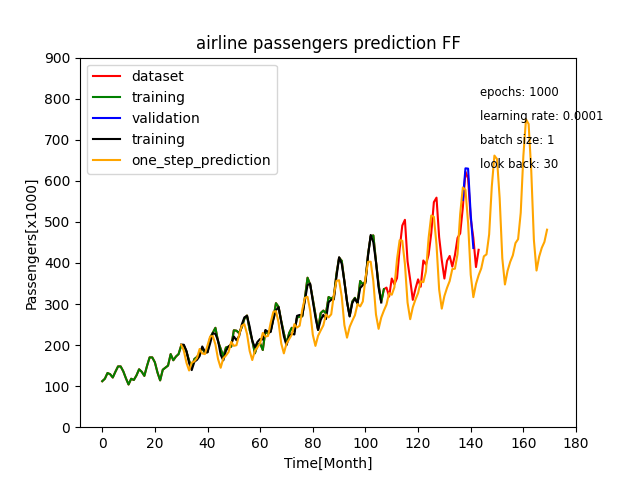
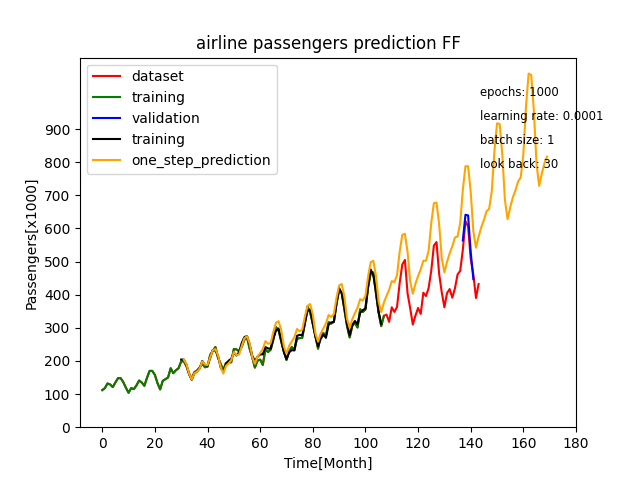
add shift to one step ahead prediction results

diff --git a/TimeSeriesPrediction/UnivariatTimeSeriesForecast/AirlinePassengers/Keras/FF/airline_passengers_keras_ff.py b/TimeSeriesPrediction/UnivariatTimeSeriesForecast/AirlinePassengers/Keras/FF/airline_passengers_keras_ff.py
@@ -43,11 +43,12 @@ def main():
     prediction.index += LOOK_BACK
 
 
+
     plt.plot(airline_passengers.data["Passengers"], color="red", label="dataset")
     plt.plot(airline_passengers.get_train_data(), color="green", label="training")
     plt.plot(test_validation["validation"], color="blue", label="validation")
     plt.plot(training_validation["training"], color="black", label="training")
-    plt.plot(prediction["one_step_prediction"], color="orange", label="one_step_prediction")
+    plt.plot(prediction["one_step_prediction"].shift(1), color="orange", label="one_step_prediction")
     plt.title("airline passengers prediction FF")
     plt.xlabel("Time[Month]")
     plt.ylabel("Passengers[x1000]")
